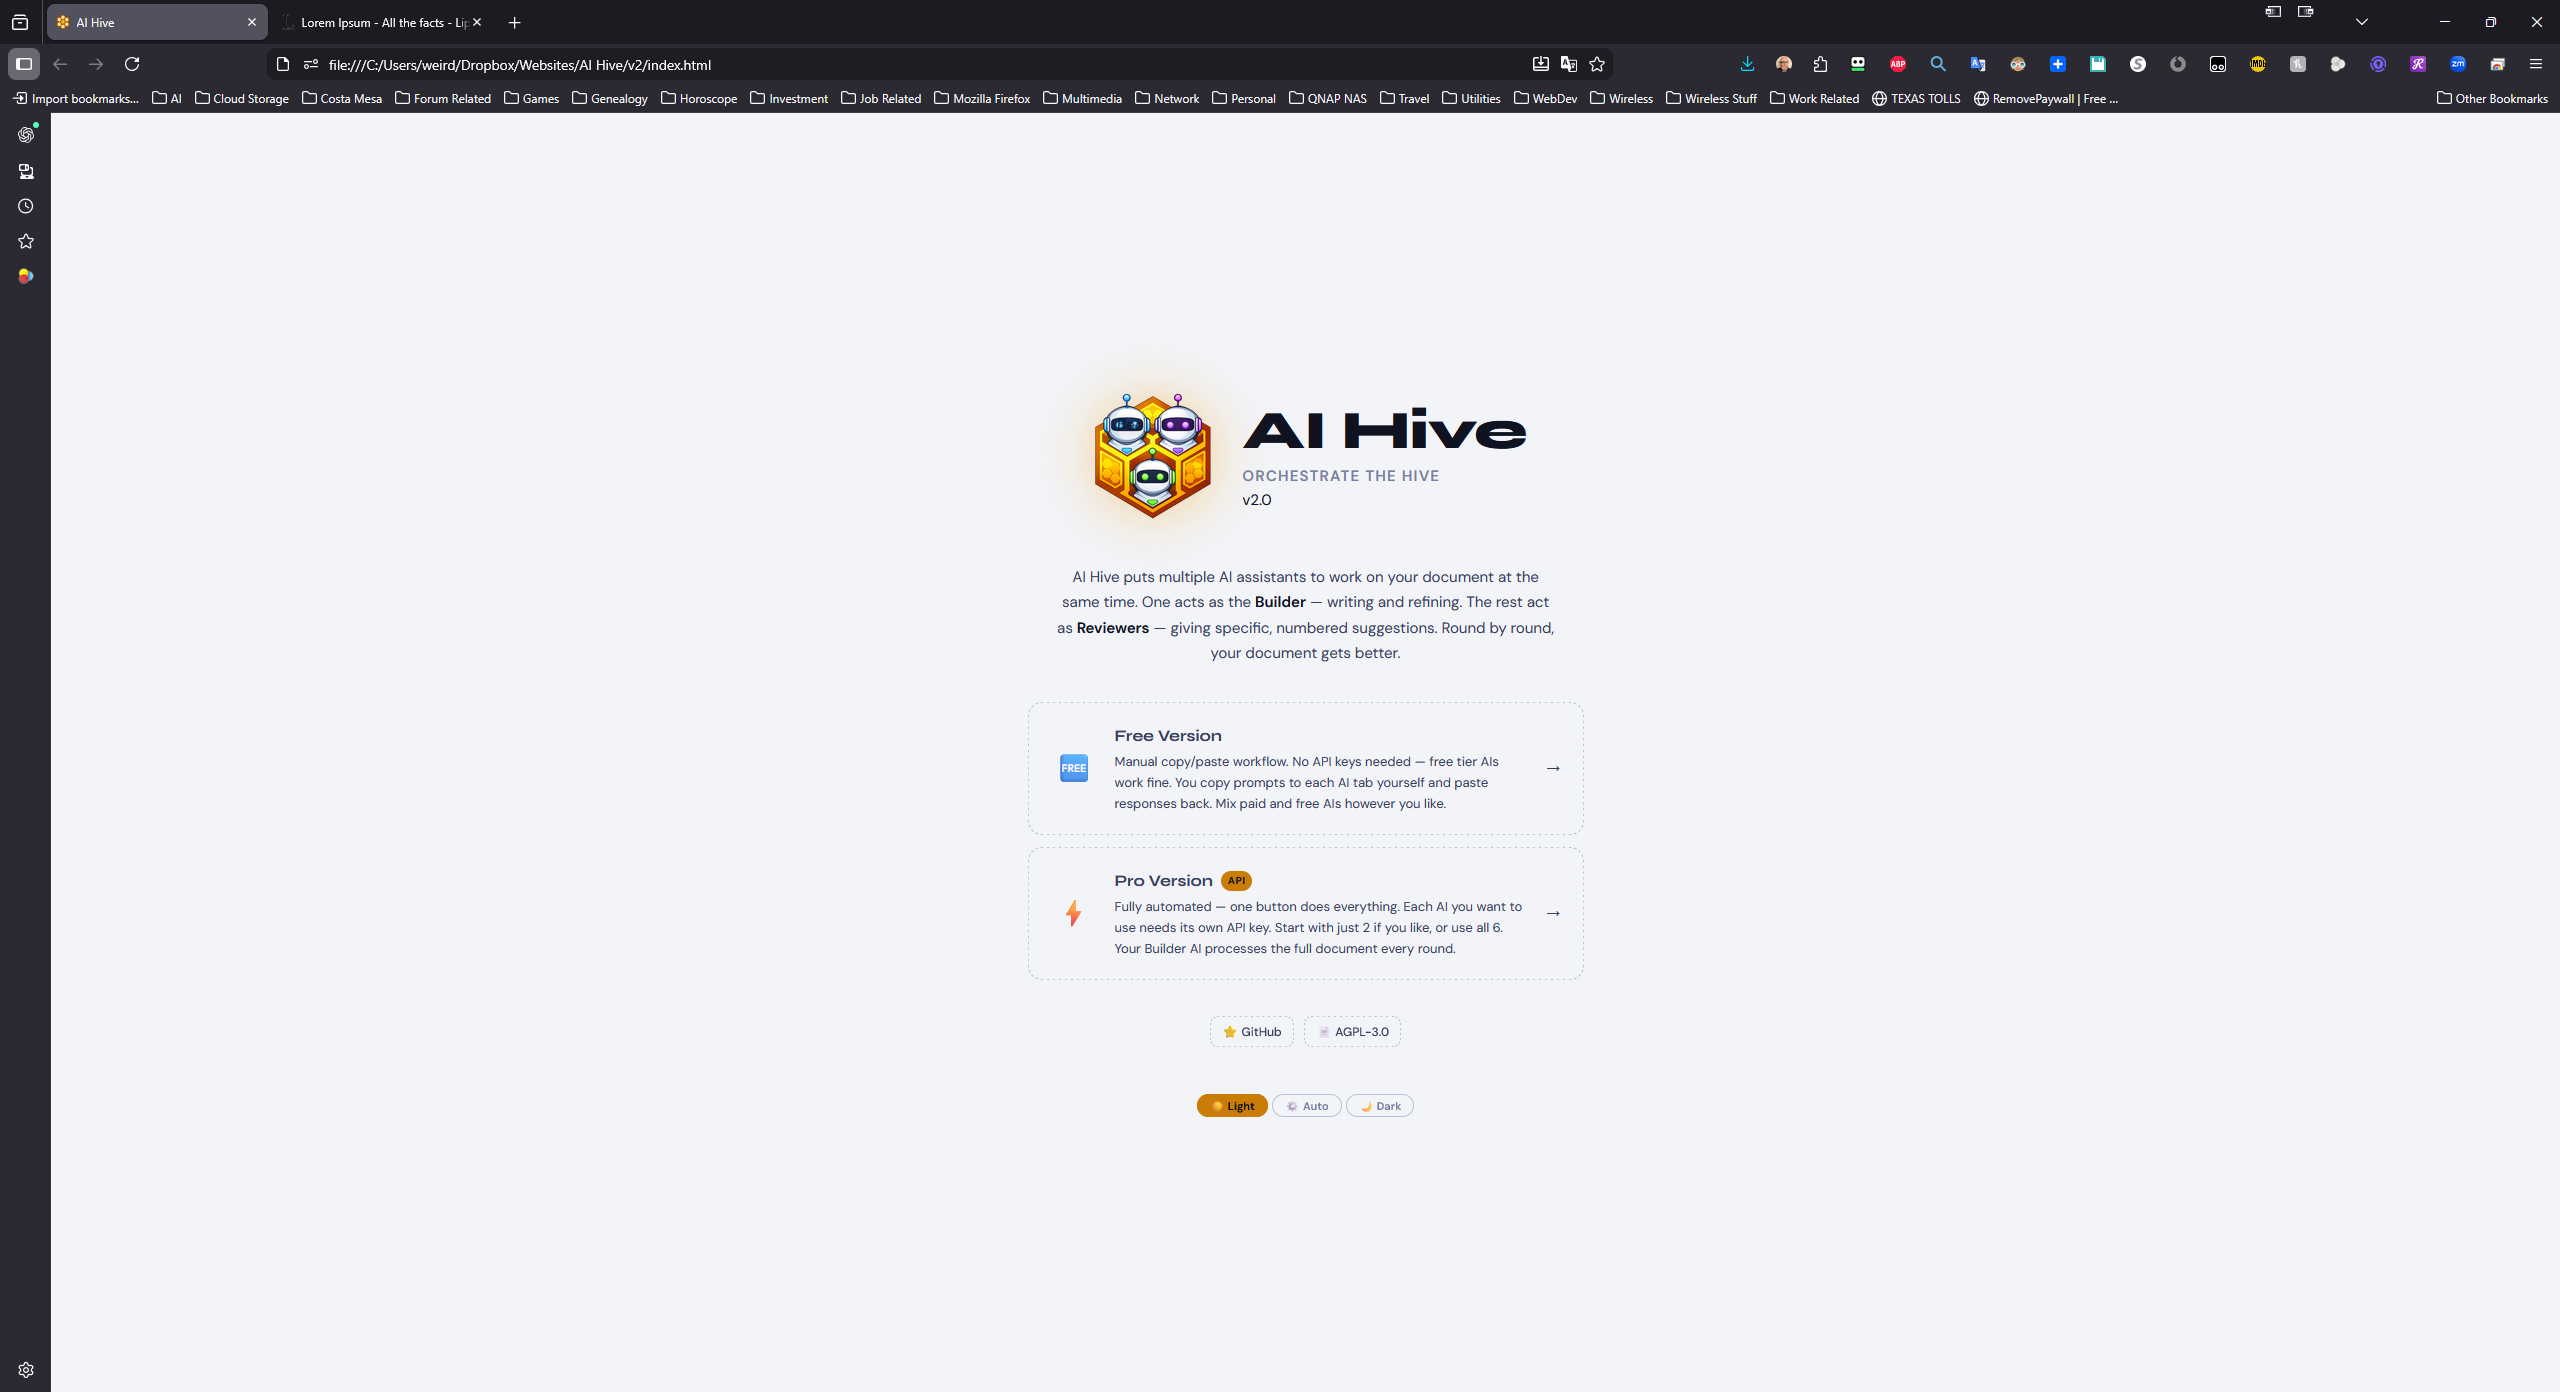
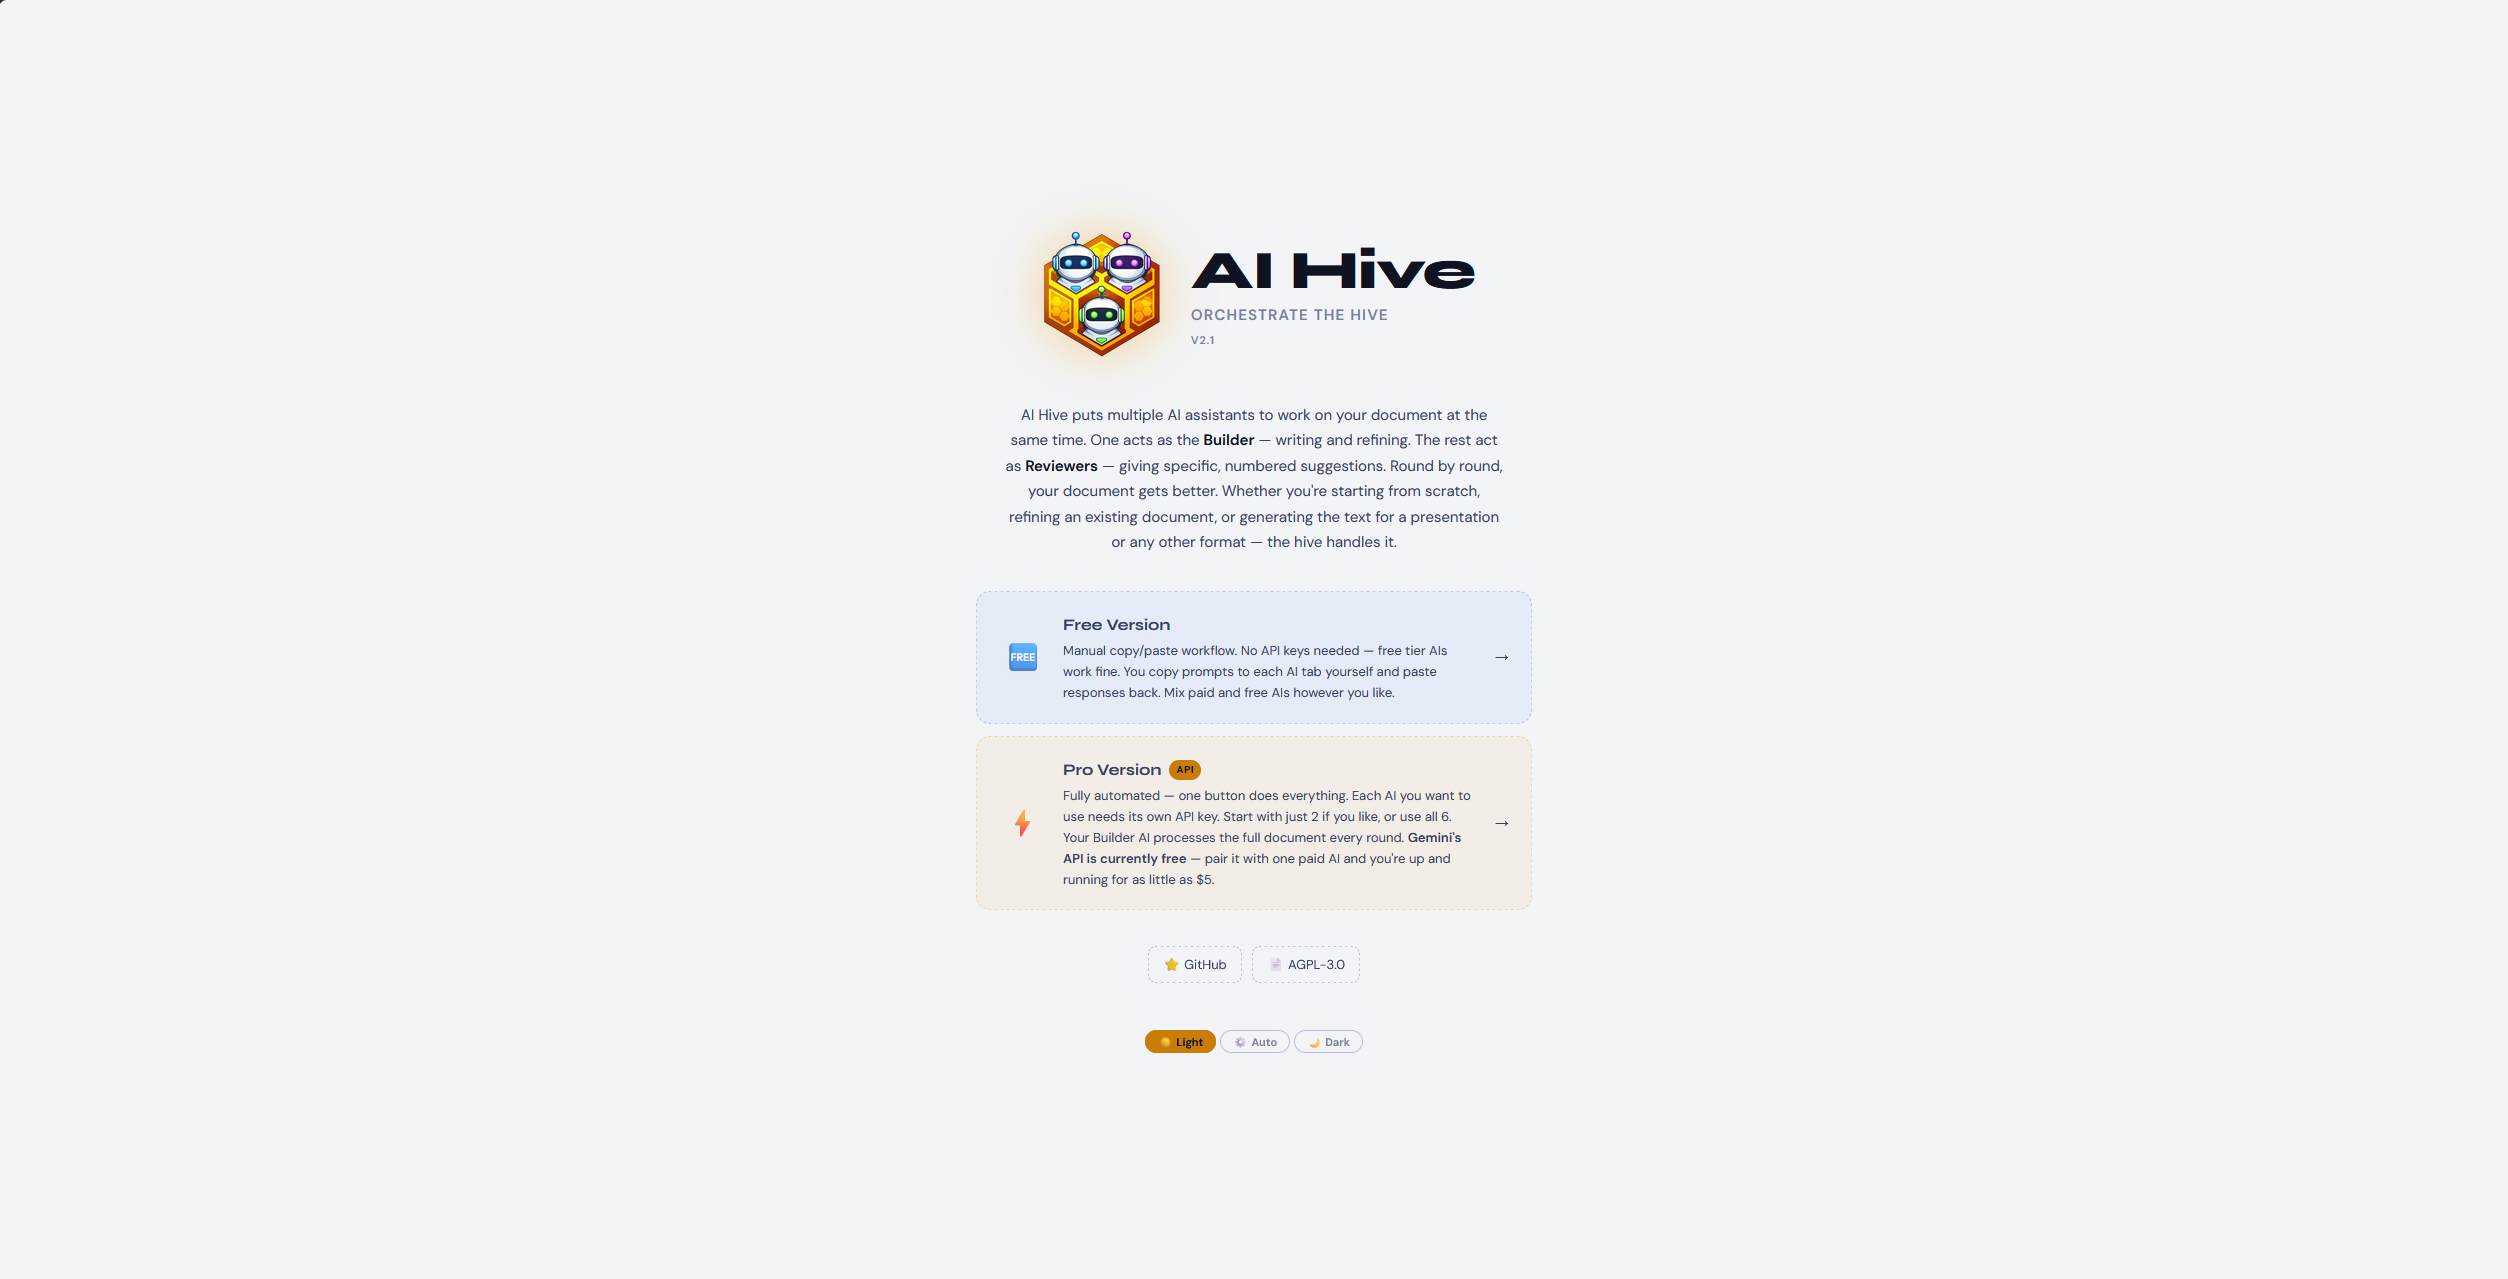
New Screenshots for readme

Changed region(s): [[0.0, 0.0, 1.0, 1.0], [0.4043, 0.1525, 0.622, 0.7013], [0.4354, 0.7318, 0.5598, 0.8233]]

diff --git a/style.css b/style.css
@@ -380,6 +380,24 @@ html, body {
   color: var(--accent);
   background: var(--accent-dim);
 }
+.welcome-card.free {
+  background: rgba(59, 130, 246, 0.07);
+  border-color: rgba(59, 130, 246, 0.35);
+}
+.welcome-card.free:hover {
+  background: rgba(59, 130, 246, 0.14);
+  border-color: rgba(59, 130, 246, 0.65);
+  color: #7ab8ff;
+}
+.welcome-card.pro {
+  background: rgba(245, 158, 11, 0.07);
+  border-color: rgba(245, 158, 11, 0.35);
+}
+.welcome-card.pro:hover {
+  background: rgba(245, 158, 11, 0.14);
+  border-color: var(--accent);
+  color: var(--accent);
+}
 
 .welcome-card-icon {
   font-size: 28px;
@@ -4265,8 +4283,8 @@ kbd {
    ══════════════════════════════════════ */
 .dev-toolbar {
   position: fixed;
-  top: 10px;
-  right: 10px;
+  bottom: 10px;
+  left: 10px;
   z-index: 99999;
   display: flex;
   align-items: center;
